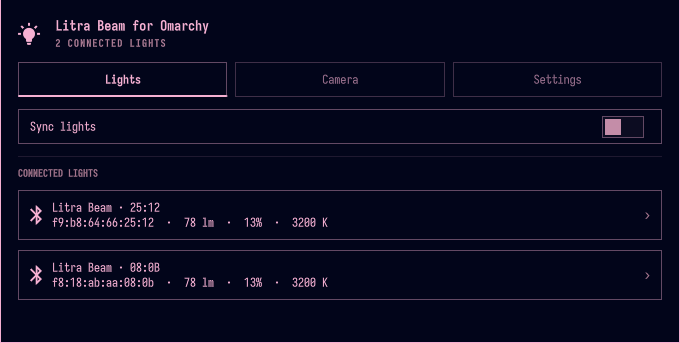
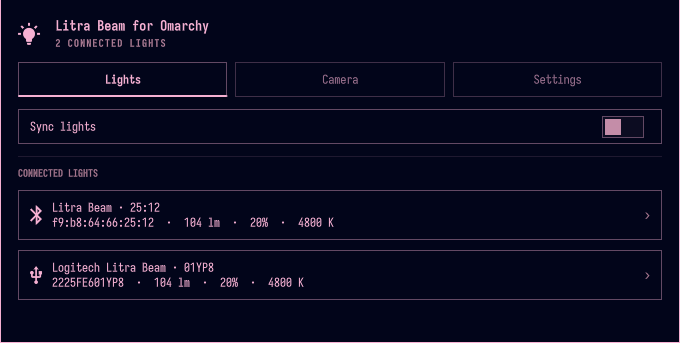
Document USB and Bluetooth light details

Changed region(s): [[0.0309, 0.758, 0.4941, 0.8455], [0.2779, 0.6122, 0.4015, 0.6706], [0.4324, 0.6122, 0.4941, 0.6706]]

diff --git a/README.md b/README.md
@@ -23,13 +23,21 @@ RGB-specific features can be added once the project has access to an RGB model a
 
 ### 2. Control lights independently or together
 
-The Lights tab lists every connected light with its transport, brightness, effective lumen output, and color temperature. Select a light to control its power, brightness, and temperature independently. With multiple lights connected, enable **Sync lights** to copy the first powered-on light's state to the group and apply subsequent changes to every light.
+The Lights tab lists every connected light with a transport icon, device identifier, effective lumen output, brightness, and color temperature. USB and Bluetooth lights can be used together.
 
-![Lights tab showing two connected Litra Beam lights](docs/screenshots/lights.png)
+![Lights tab showing one Bluetooth and one USB Litra Beam](docs/screenshots/lights.png)
 
-Brightness respects each light's reported power limit. In synchronized mode, the lowest effective maximum among the connected lights becomes the group limit.
+Select a light to control its power, brightness, and temperature independently. A Bluetooth light displays its Bluetooth address and the effective output available from that connection.
 
-![Synchronized controls applying power, brightness, and temperature to the light group](docs/screenshots/sync.png)
+![Bluetooth Litra Beam detail view](docs/screenshots/bluetooth-details.png)
+
+A USB light displays its USB device identifier and its reported power ceiling. If the current USB power source cannot provide the nominal output, the brightness slider stops at the effective maximum and the detail view explains why. The value shown below is the limit reported by this particular USB connection, not a fixed limit for every USB setup.
+
+![USB Litra Beam detail view showing its reported power limit](docs/screenshots/usb-details.png)
+
+With multiple lights connected, enable **Sync lights** to copy the first powered-on light's state to the group and apply subsequent changes to every light. In synchronized mode, the lowest effective maximum among the connected lights becomes the group limit, and the plugin identifies which device is imposing that limit.
+
+![Synchronized USB and Bluetooth controls capped by the lowest reported power limit](docs/screenshots/sync.png)
 
 ### 3. Automate lights from camera activity
 
